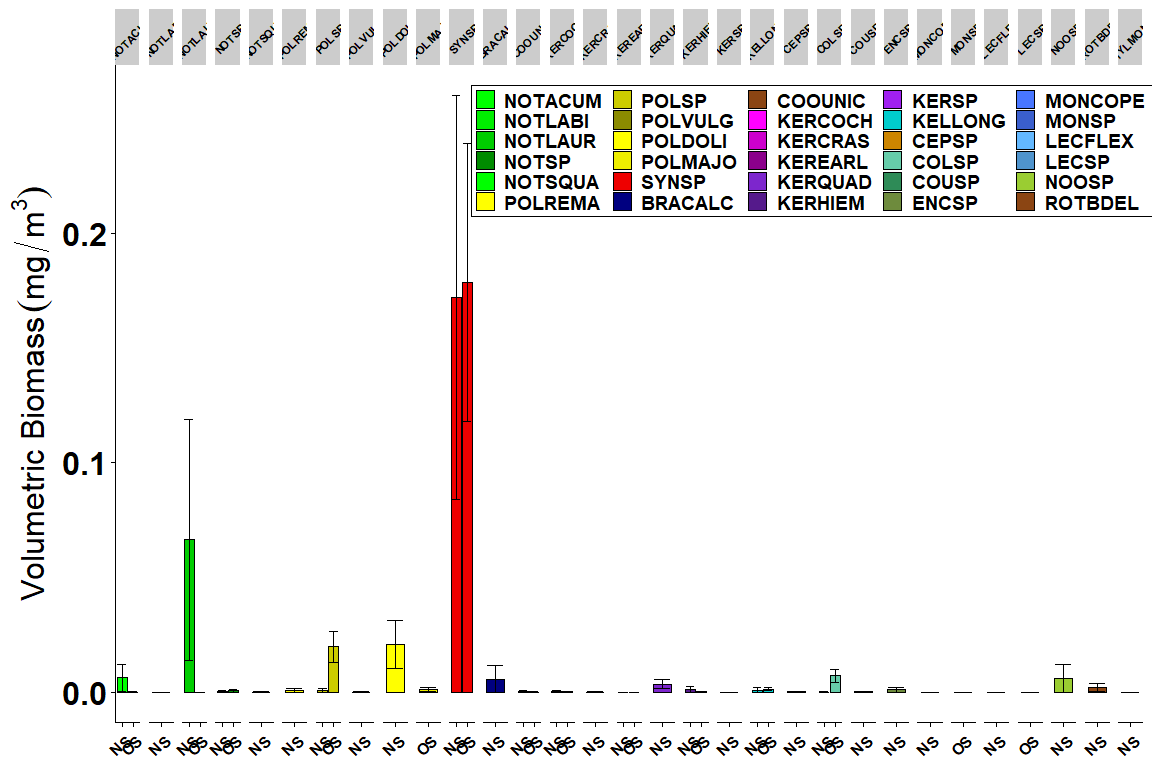
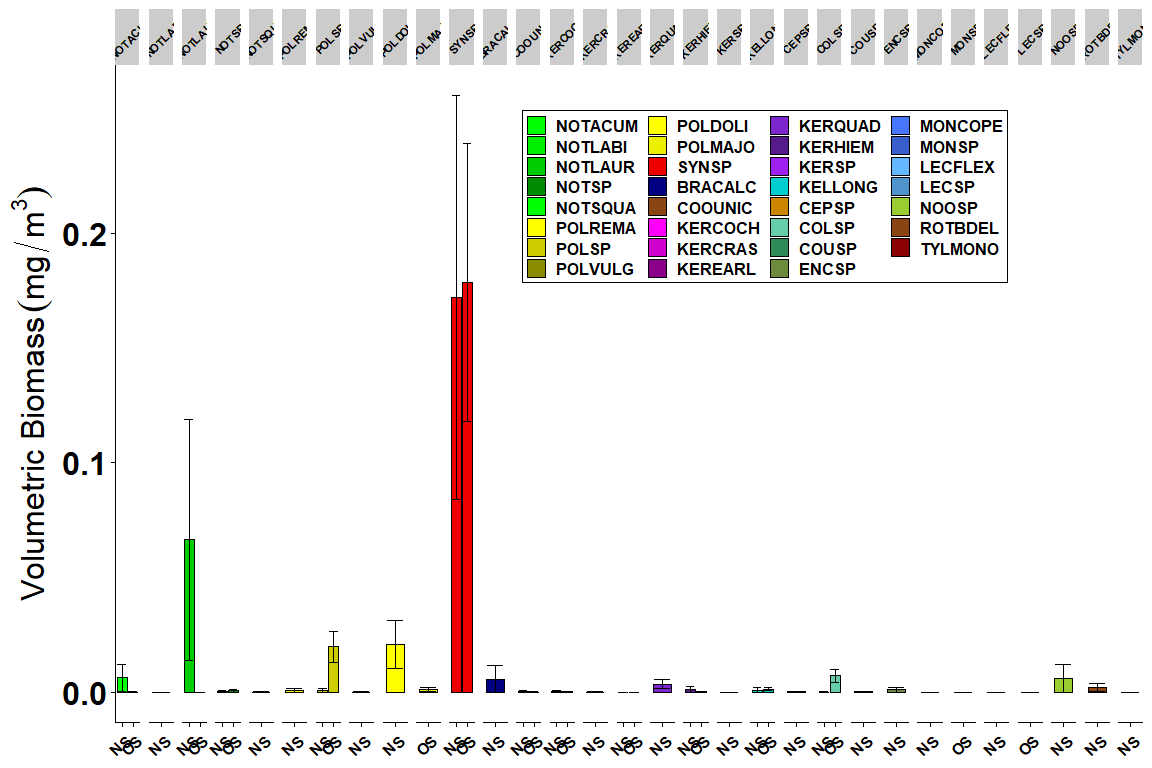
rmd knit file figures

Changed region(s): [[0.4062, 0.0938, 1.0, 0.375]]

diff --git a/Ontario/RMD Files and Knit Output/Ontario-2023-Nearshore-Rotifers.md b/Ontario/RMD Files and Knit Output/Ontario-2023-Nearshore-Rotifers.md
@@ -1,7 +1,7 @@
 ---
 title: "Ontario 2023 Nearshore Rotifers"
 author: "Chris Marshall"
-date: "2026-01-07"
+date: "2026-01-08"
 output: 
   word_document: 
     fig_width: 12
@@ -39,7 +39,7 @@ Marshall, C.C., Watkins, J.M., Connolly, J.K., Boynton, P.V., Schaefer, S.L., Cu
 
 ![Figure X2. Spring Rotifer species offshore (OS) vs. nearshore (NS) average biomass (mg dry wt per m^3^). Error bars represent standard errors of the means. Taxa groups are identified in legend by color.](Ontario-2023-Nearshore-Rotifers_files/figure-docx/OS-NS Spring Rotifer Species Average Biomass-1.png)
 
-## Rotifer Species Offshore-Nearshore Biomass Barplot Excluding Asplanchna
+## Rotifer Species Summer Offshore-Nearshore Biomass Barplot Excluding Asplanchna
 
 ![Figure X3. Summer Rotifer species (excluding Asplanchna) offshore (OS) vs. nearshore (NS) average biomass (mg dry wt per m^3^). Error bars represent standard errors of the means. Taxa groups are identified in legend by color.](Ontario-2023-Nearshore-Rotifers_files/figure-docx/OS-NS Summer Rotifer Species (No Asplanchna) Average Biomass-1.png)
 
@@ -59,7 +59,7 @@ Marshall, C.C., Watkins, J.M., Connolly, J.K., Boynton, P.V., Schaefer, S.L., Cu
 
 ## Rotifer Genera Summer Offshore-Nearshore Biomass Barplot
 
-![Figure 1. Summer Rotifer genera offshore (OS) vs. nearshore (NS) average biomass (mg dry wt per m^3^). Error bars represent standard errors of the means. Taxa groups are identified in legend by color.](Ontario-2023-Nearshore-Rotifers_files/figure-docx/Summer OS-NS Rotifer Genera Average Biomass-1.png)
+![Figure 1. Summer Rotifer genera offshore (OS) vs. nearshore (NS) average biomass (mg dry wt per m^3^). Error bars represent standard errors of the means. Taxa groups are identified in legend by color.](Ontario-2023-Nearshore-Rotifers_files/figure-docx/Summer OS-NS Rotifer Genera Average Biomass Barplot-1.png)
 
 This Figure 1 shows a focused look at the 11 taxa encountered between the nearshore and offshore samples for Lake Ontario in August 2023. With several exceptions, most rotifer taxa exhibited higher average biomass values in the offshore samples, suggesting that these waters supported higher densities and perhaps larger taxa compared to shallower habitats. One exception to this were *Trichocerca*, which had a higher biomass in the nearshore vs. offshore, and can be attributed to the higher nutrient concentrations found in nearshore waters supporting a greater density of these eutrophic-loving taxa (Gannon and Stemberger 1978; Sládecek, 1983). *Gastropus* were the remaining taxa to show a slight preference for the nearshore waters. *Synchaeta* and *Ascomorpha* were taxa that exhibited very similar biomass values between near- and offshore waters. These insights suggest that despite higher food concentrations in nearshore habitats, only several taxa gain a clear advantage in these conditions.
 
@@ -95,27 +95,6 @@ Stemberger, R.S., 1979. A guide to the rotifers of the Laurentian Great Lakes. R
 
 ## Rotifer Genera Summer Offshore-Nearshore Biomass Boxplot
 
-
-```
-## # A tibble: 231 × 14
-##    Station Rot_GENERA  Type  Season All_Bio_SUM_m3 All_Den_SUM_m3 Q1_Density
-##    <chr>   <chr>       <chr> <chr>           <dbl>          <dbl>      <dbl>
-##  1 ON12    Ascomorpha  OS    Summer          2.31           9670.      1433.
-##  2 ON12    Asplanchna  OS    Summer         66.6            3626.       556.
-##  3 ON12    Collotheca  OS    Summer          3.31          16923.      1786.
-##  4 ON12    Conochilus  OS    Summer         15.8           73734.     59224.
-##  5 ON12    Gastropus   OS    Summer          0.525          2418.      1180.
-##  6 ON12    Kellicottia OS    Summer          8.35         131754.     11822.
-##  7 ON12    Keratella   OS    Summer         14.2          189774.     28935.
-##  8 ON12    Ploesoma    OS    Summer         12.8            4835.      1260.
-##  9 ON12    Polyarthra  OS    Summer          1.98           4835.      4222.
-## 10 ON12    Synchaeta   OS    Summer          1.09           4835.      1469.
-## # ℹ 221 more rows
-## # ℹ 7 more variables: Q3_Density <dbl>, IQR_Density <dbl>,
-## #   is_outlier_Density <lgl>, Q1_Biomass <dbl>, Q3_Biomass <dbl>,
-## #   IQR_Biomass <dbl>, is_outlier_Biomass <lgl>
-```
-
 ![Figure X5. Summer Rotifer genera offshore (OS) vs. nearshore (NS) average biomass (mg dry wt per m^3^) boxplots. Taxa groups are identified in legend by color.](Ontario-2023-Nearshore-Rotifers_files/figure-docx/Summer OS-NS Rotifer Genera Average Biomass Boxplot-1.png)
 
 |contrast |Rot_GENERA  |   estimate|       SE|       df|    t.ratio|   p.value|
@@ -133,27 +112,6 @@ Stemberger, R.S., 1979. A guide to the rotifers of the Laurentian Great Lakes. R
 |NS - OS  |Trichocerca |  18.778846| 22.90431| 138.6968|  0.8198827| 0.4136897|
 
 ## Rotifer Genera Spring Offshore-Nearshore Biomass Boxplot
-
-
-```
-## # A tibble: 238 × 14
-##    Station Rot_GENERA   Type  Season All_Bio_SUM_m3 All_Den_SUM_m3 Q1_Density
-##    <chr>   <chr>        <chr> <chr>           <dbl>          <dbl>      <dbl>
-##  1 ON12    Cephalodella OS    Spring       0                  0          0   
-##  2 ON12    Collotheca   OS    Spring       0.00681           23.0       10.0 
-##  3 ON12    Colurella    OS    Spring       0                  0          0   
-##  4 ON12    Conochilus   OS    Spring       0                  0          0   
-##  5 ON12    Encentrum    OS    Spring       0                  0          0   
-##  6 ON12    Kellicottia  OS    Spring       0.000371           2.87       3.77
-##  7 ON12    Keratella    OS    Spring       0.00244           25.8        9.86
-##  8 ON12    Lecane       OS    Spring       0.000267           2.87       0   
-##  9 ON12    Monostyla    OS    Spring       0                  0          0   
-## 10 ON12    Notholca     OS    Spring       0                  0          0   
-## # ℹ 228 more rows
-## # ℹ 7 more variables: Q3_Density <dbl>, IQR_Density <dbl>,
-## #   is_outlier_Density <lgl>, Q1_Biomass <dbl>, Q3_Biomass <dbl>,
-## #   IQR_Biomass <dbl>, is_outlier_Biomass <lgl>
-```
 
 ![Figure X6. Spring Rotifer genera offshore (OS) vs. nearshore (NS) average biomass (mg dry wt per m^3^) boxplots. Taxa groups are identified in legend by color.](Ontario-2023-Nearshore-Rotifers_files/figure-docx/Spring OS-NS Rotifer Genera Average Biomass Boxplot-1.png)
 
@@ -176,7 +134,7 @@ Stemberger, R.S., 1979. A guide to the rotifers of the Laurentian Great Lakes. R
 
 ## Rotifer Summer Genera Station Total Biomass Barplot
 
-![Figure 2. Summer Rotifer genera station total biomass (mg dry wt per m^3^) for shallow tows at the eight offshore LTM sites, six CSMI nearshore sites along the north shore, and seven CSMI nearshore sites along the south shore.](Ontario-2023-Nearshore-Rotifers_files/figure-docx/OS-NS Summer Rotifer Genera Station Biomass-1.png)
+![Figure 3. Summer Rotifer genera station total biomass (mg dry wt per m^3^) for shallow tows at the eight offshore LTM sites, six CSMI nearshore sites along the north shore, and seven CSMI nearshore sites along the south shore.](Ontario-2023-Nearshore-Rotifers_files/figure-docx/OS-NS Summer Rotifer Genera Station Biomass-1.png)
 
 This Figure 2 shows a comparsion between rotifer assemblages in the eight offshore and thirteen nearshore stations collected in Lake Ontario during August 2023. The three western offshore stations exhibited higher biomass values compared with the eastern portion of the lake, and the differences are primaritly attributed to higher *Asplanchna* and *Conochilus* contributions. Additionally, the biomass of *Keratella*, *Kellicottia*, and *Collotheca* are notably higher in the western stations, likely associated with lower TP concentrations promoting taxa associated with more oligotrophic-like conditions (Barbiero and Warren, 2011; Marshall et al., 2024). Another notable difference is higher *Polyarthra* biomass in the five eastern stations, with the highest values at the easternmost station, indicating higher TP values and/or decreased predation pressures by *Cercopagis pengoi.*
 
@@ -186,5 +144,21 @@ For the nearshore stations, the six northern stations generally have less overal
 
 ## Rotifer Spring Genera Station Total Biomass Barplot
 
-![Figure 2. Spring Rotifer genera station total biomass (mg dry wt per m^3^) for shallow tows at the eight offshore LTM sites, six CSMI nearshore sites along the north shore, and seven CSMI nearshore sites along the south shore.](Ontario-2023-Nearshore-Rotifers_files/figure-docx/OS-NS Spring Rotifer Genera Station Biomass-1.png)
+![Figure 4. Spring Rotifer genera station total biomass (mg dry wt per m^3^) for shallow tows at the eight offshore LTM sites, six CSMI nearshore sites along the north shore, and seven CSMI nearshore sites along the south shore.](Ontario-2023-Nearshore-Rotifers_files/figure-docx/OS-NS Spring Rotifer Genera Station Biomass-1.png)
+
+## Zoop Taxa Summer Offshore-Nearshore Biomass Barplot
+
+![Figure 5. Summer Zoop taxa offshore (OS) vs. nearshore (NS) average biomass (mg dry wt per m^3^). Error bars represent standard errors of the means. Taxa groups are identified in legend by color.](Ontario-2023-Nearshore-Rotifers_files/figure-docx/Summer OS-NS Zoop Taxa Average Biomass Barplot-1.png)
+
+## Zoop Taxa Summer Offshore-Nearshore Biomass Barplot
+
+![Figure 6. Summer Zoop taxa offshore (OS) vs. nearshore (NS) average biomass (mg dry wt per m^3^). Error bars represent standard errors of the means. Taxa groups are identified in legend by color.](Ontario-2023-Nearshore-Rotifers_files/figure-docx/Summer OS-NS Zoop Taxa Average Biomass Barplot -1.png)
+
+## Zoop Summer Taxa Station Total Biomass Barplot
+
+![Figure 7. Summer Zoop taxa station total biomass (mg dry wt per m^3^) for shallow tows at the eight offshore LTM sites, six CSMI nearshore sites along the north shore, and seven CSMI nearshore sites along the south shore.](Ontario-2023-Nearshore-Rotifers_files/figure-docx/OS-NS Summer Zoop Taxa Station Biomass-1.png)
+
+## Zoop Spring Taxa Station Total Biomass Barplot
+
+![Figure 8. Spring Zoop taxa station total biomass (mg dry wt per m^3^) for shallow tows at the eight offshore LTM sites, six CSMI nearshore sites along the north shore, and seven CSMI nearshore sites along the south shore.](Ontario-2023-Nearshore-Rotifers_files/figure-docx/OS-NS Spring Zoop Taxa Station Biomass-1.png)
 
